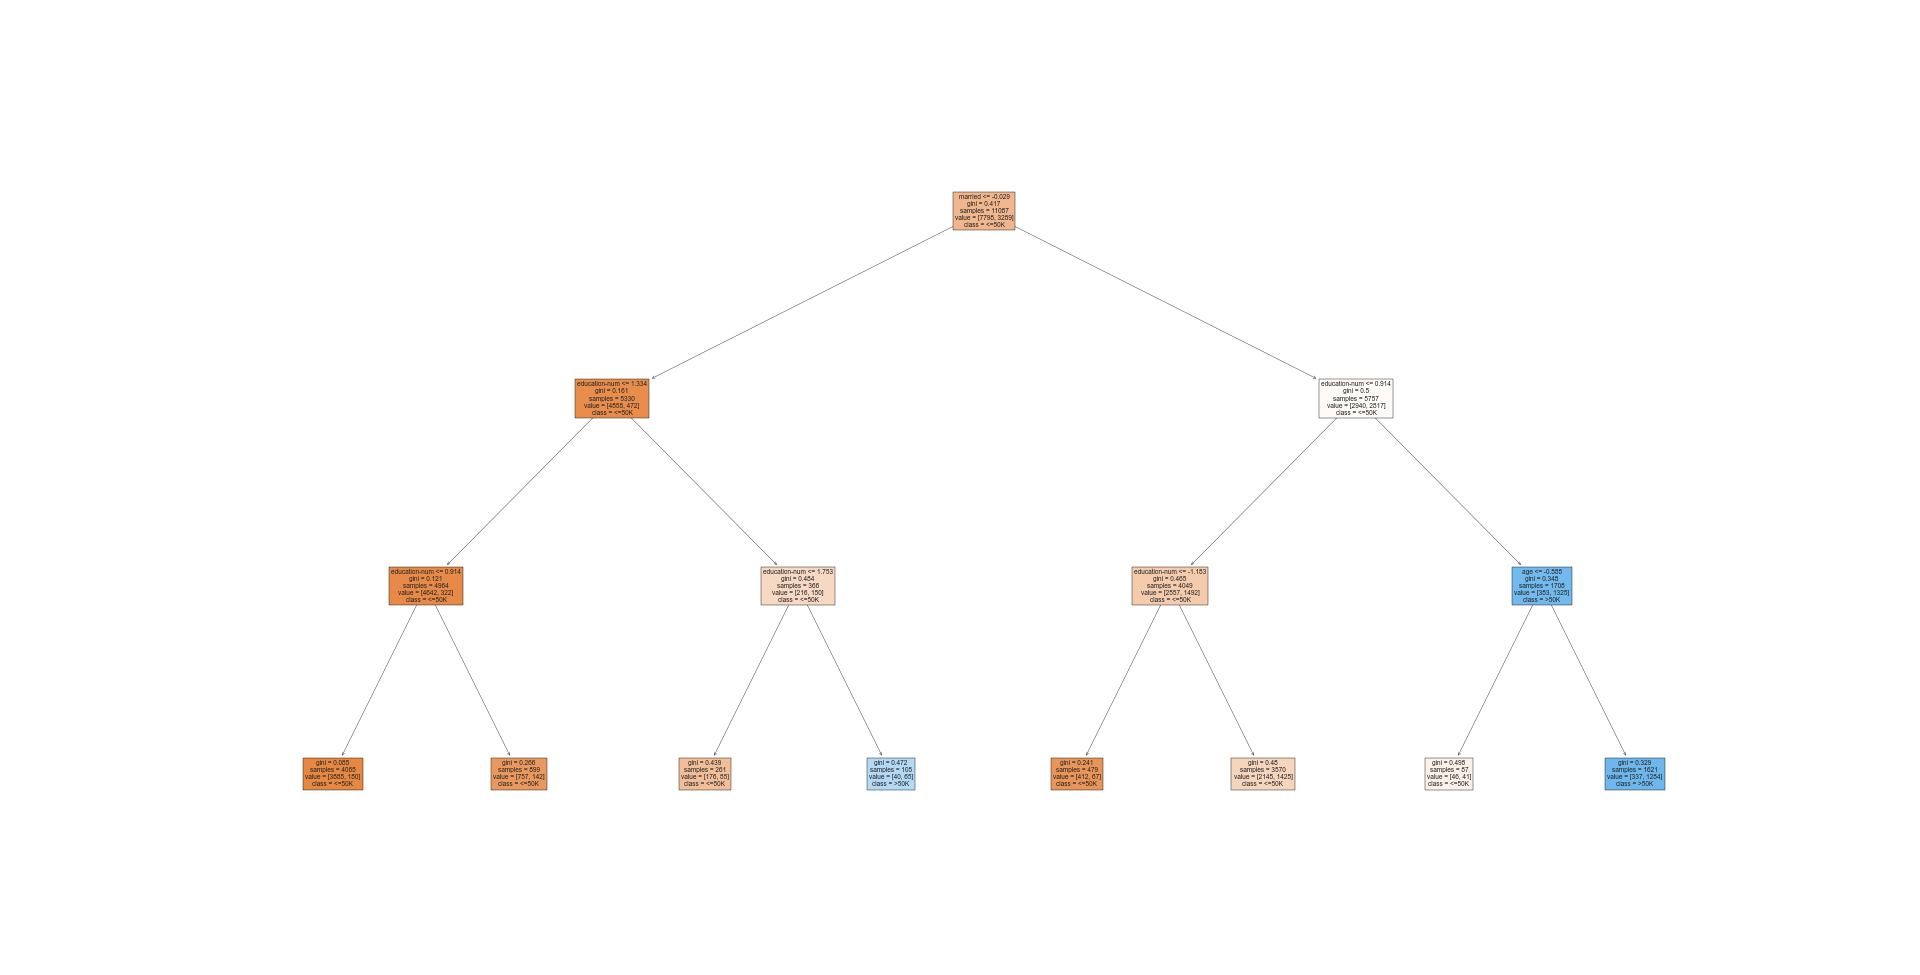
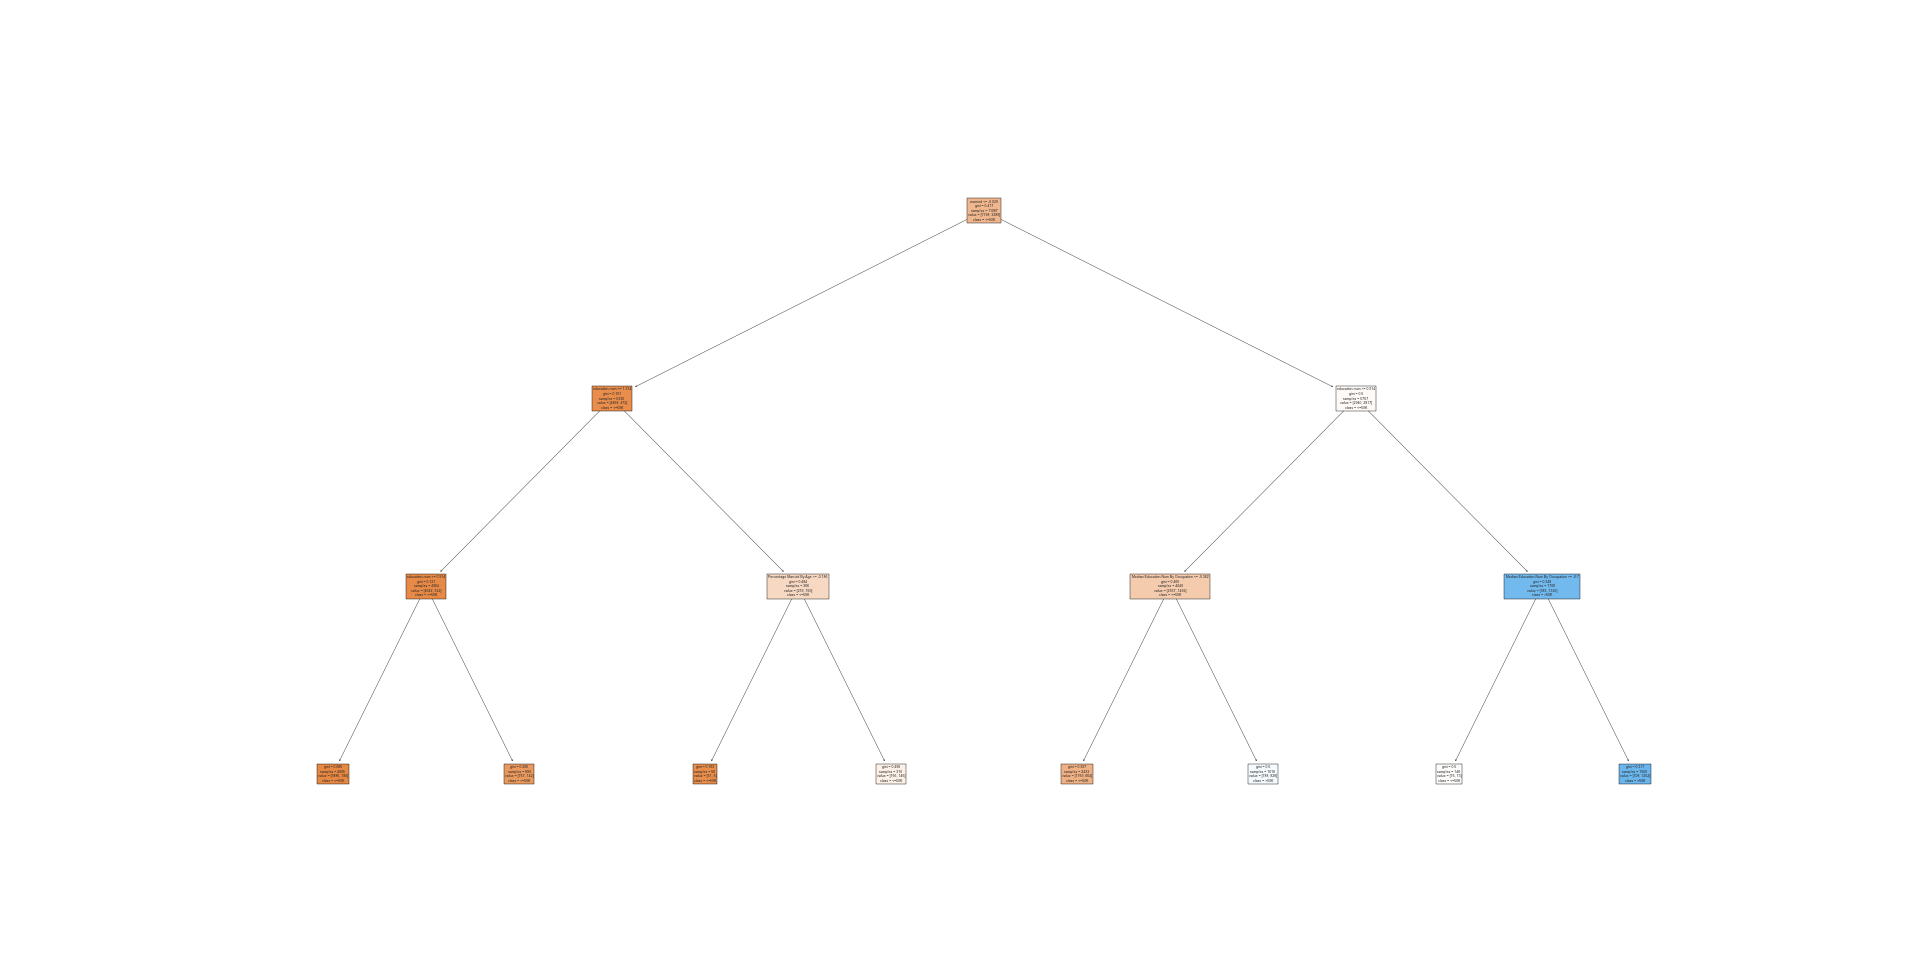
Updated For Aggregate columns

diff --git a/project.py b/project.py
@@ -18,6 +18,7 @@ df = df.drop(['fnlwgt', 'capital-gain', 'capital-loss', 'education'], axis=1)
 
 df = df.loc[df['hours-per-week'] >= 40]
 
+
 # PAIR PLOT
 # plot = sns.pairplot(df, hue="income")
 # plt.show()
@@ -94,8 +95,6 @@ df = df.loc[df['native-country'] == 'United-States']
 # Income
 df['More Than 50K'] = df['income'].map({ '<=50K': 0, '>50K': 1} ).astype(int)
 
-
-
 # HEAT MAP
 # plot = sns.heatmap(df.corr(method='pearson')[['More Than 50K']].sort_values(by='More Than 50K', ascending=False), annot=True)
 # plt.show()
@@ -105,6 +104,24 @@ df['More Than 50K'] = df['income'].map({ '<=50K': 0, '>50K': 1} ).astype(int)
 # fig.update_traces(marker=dict(size=3))
 # fig.show(renderer="notebook")
 
+
+# Add Aggregate Column
+
+df['Median Education Num By Occupation'] = df.groupby(by=['occupation'])['education-num'].transform('median')
+df['Mean Age By Occupation'] = df.groupby(by=['occupation'])['age'].transform('mean')
+
+
+df['Count By Age'] = df.groupby(by=['age'])['married'].transform('count')
+df['Married Count By Age'] = df.groupby(by=['age', 'married'])['married'].transform('count')
+
+df['Percentage Married By Age'] = df['Married Count By Age'] / df['Count By Age']
+
+# Flip single percentage so that it matched married percentage
+mask = df['married'] == 0
+
+df.loc[mask, 'Percentage Married By Age'] = df.loc[mask].apply(lambda x: 1 - x['Percentage Married By Age'], axis=1)
+
+df = df.drop(['Count By Age', 'Married Count By Age'], axis=1)
 
 # One hot encode a few columns
 temp = pd.get_dummies(df['workclass'])
@@ -123,6 +140,9 @@ df = df.drop(['workclass', 'occupation', 'race'], axis=1)
 df = df.drop(['marital-status', 'relationship', 'native-country', 'income'], axis=1)
 
 
+
+
+
 # Model Training
 
 # Get the data and scale it
@@ -131,9 +151,6 @@ x_data = df.drop('More Than 50K', axis=1)
 
 y_columns = ['More Than 50K']
 x_columns = x_data.columns.tolist()
-
-print(y_columns)
-print(x_columns)
 
 scaler = preprocessing.StandardScaler()
 x_data = scaler.fit_transform(x_data)
@@ -159,7 +176,7 @@ for num in range(1, 10):
     #     visual.score(x_test, y_test)
     #     visual.poof()
 
-    clf = tree.DecisionTreeClassifier()
+    clf = tree.DecisionTreeClassifier(max_depth=3)
     clf = clf.fit(x_train, y_train)
     treeResults = np.append(treeResults, clf.score(x_test, y_test))
 
@@ -172,7 +189,7 @@ for num in range(1, 10):
     #     plt.show()
 
 resultDF = pd.DataFrame()
-resultDF['% Test'] = percentages
+resultDF['% Test'] = percentages * 100
 resultDF['Linear Regression Score'] = linearResults
 resultDF['Decision Tree Score'] = treeResults
 
@@ -183,5 +200,3 @@ print(resultDF)
 # plot = sns.lineplot(x='% Test', y='value', hue='variable', 
 #              data=pd.melt(resultDF, ['% Test']))
 # plt.show()
-
-# Decisions Tree
